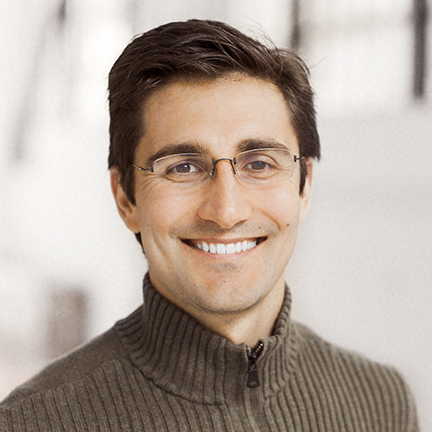
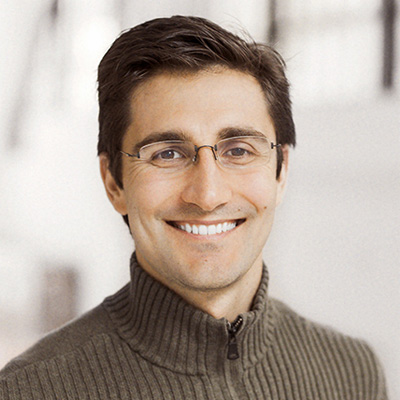
speaker images and descriptions added

diff --git a/src/index.html b/src/index.html
@@ -54,9 +54,9 @@
 	    <!-- Main Speaker Section -->
 	    <div class="row text-xs-center primary-speaker-section">
 	  	 	<div class="col-xs-12">
-	    		<img class="rounded-circle" src="https://www.placehold.it/200x200">
+	    		<img class="rounded-circle primary-speaker-img" src="./imgs/speakers/polly.jpg">
 	    		<h4 class="keynote">KEYNOTE SPEAKER</h4>
-	    		<span class="name">Polly LaBarre</span> <span class="speaker-title"> | Co-author, Mavericks at Work and Founding Member, Fast Company Magazine</span>
+	    		<span class="name">Polly LaBarre</span><span class="speaker-title"> |&nbsp; Co-author, Mavericks at Work and Founding Member, Fast Company Magazine</span>
 	    		<p class="speaker-desc">Polly LaBarre is a bestselling author, speaker, and thinker who has contributed to the business conversation for two decades. She is the coauthor of the bestselling book <i>Mavericks At Work: Why the Most Original Minds in Business Win</i>, a founding memeber of Fast Company magazine (where she was Senior Editor for the better part of a decade), and a former business and innovative correspondent for CNN.</p>
 	    	</div>
     	</div>
@@ -64,47 +64,47 @@
     	<!-- Secondary Speaker Section -->
     	<div class="row secondary-speaker-section-first">
     		<div class="col-xs-12 col-sm-6 col-md-4 text-xs-center">
-    			<img class="rounded-circle speaker-img" src="https://www.placehold.it/190x190">
+    			<img class="rounded-circle secondary-speaker-img" src="./imgs/speakers/josephine.jpg">
     			<div>
-    				<span class="name">Polly LaBarre</span> <span class="speaker-title"> | HOTWIRE</span>
+    				<span class="name">Josephine Foucher</span><span class="speaker-title"> |&nbsp; HOTWIRE</span>
     				<div class="secondary-speaker-title">Product Manager</div>
     			</div>
     		</div>
 				<div class="col-xs-12 col-sm-6 col-md-4 text-xs-center">
-    			<img class="rounded-circle speaker-img" src="https://www.placehold.it/190x190">
+    			<img class="rounded-circle secondary-speaker-img" src="./imgs/speakers/colin.jpg">
     			<div>
-    				<span class="name">Polly LaBarre</span> <span class="speaker-title"> | HOTWIRE</span>
-    				<div class="secondary-speaker-title">Product Manager</div>
+    				<span class="name">Colin Gardiner</span> <span class="speaker-title"> |&nbsp; TRIPPING</span>
+    				<div class="secondary-speaker-title">VP of Products &amp; Analytics</div>
     			</div>
     		</div>
 				<div class="col-xs-12 col-sm-6 col-md-4 text-xs-center">
-    			<img class="rounded-circle speaker-img" src="https://www.placehold.it/190x190">
+    			<img class="rounded-circle secondary-speaker-img" src="./imgs/speakers/julia.jpg">
     			<div>
-    				<span class="name">Polly LaBarre</span> <span class="speaker-title"> | HOTWIRE</span>
-    				<div class="secondary-speaker-title">Product Manager</div>
+    				<span class="name">Julia Kastner</span> <span class="speaker-title"> |&nbsp; GENERAL ASSEMBLY</span>
+    				<div class="secondary-speaker-title">Sr. Product Manager</div>
     			</div>
     		</div>
     	</div>
     	<div class="row secondary-speaker-section-second">
     		<div class="col-xs-12 col-sm-6 col-md-4 text-xs-center">
-    			<img class="rounded-circle speaker-img" src="https://www.placehold.it/190x190">
+    			<img class="rounded-circle secondary-speaker-img" src="./imgs/speakers/hudson.jpg">
     			<div>
-    				<span class="name">Polly LaBarre</span> <span class="speaker-title"> | HOTWIRE</span>
-    				<div class="secondary-speaker-title">Product Manager</div>
+    				<span class="name">Hudson Arnold</span> <span class="speaker-title"> |&nbsp; OPTIMIZELY</span>
+    				<div class="secondary-speaker-title">Strategy Consultant</div>
     			</div>
     		</div>
 				<div class="col-xs-12 col-sm-6 col-md-4 text-xs-center">
-    			<img class="rounded-circle speaker-img" src="https://www.placehold.it/190x190">
+    			<img class="rounded-circle secondary-speaker-img" src="./imgs/speakers/leo.jpg">
     			<div>
-    				<span class="name">Polly LaBarre</span> <span class="speaker-title"> | HOTWIRE</span>
-    				<div class="secondary-speaker-title">Product Manager</div>
+    				<span class="name">Leonid Pekolis</span> <span class="speaker-title"> |&nbsp; OPTIMIZELY</span>
+    				<div class="secondary-speaker-title">Statician</div>
     			</div>
     		</div>
 				<div class="col-xs-12 col-sm-6 col-md-4 text-xs-center">
-    			<img class="rounded-circle speaker-img" src="https://www.placehold.it/190x190">
+    			<img class="rounded-circle secondary-speaker-img" src="./imgs/speakers/jon.jpg">
     			<div>
-    				<span class="name">Polly LaBarre</span> <span class="speaker-title"> | HOTWIRE</span>
-    				<div class="secondary-speaker-title">Product Manager</div>
+    				<span class="name">Polly LaBarre</span> <span class="speaker-title"> |&nbsp; OPTIMIZELY</span>
+    				<div class="secondary-speaker-title">Director, Product Management</div>
     			</div>
     		</div>
     	</div>

diff --git a/src/styles/main.css b/src/styles/main.css
@@ -104,7 +104,7 @@ h4.keynote{
 
 span.name{
 	font-weight: 700;
-	font-size: 1.2rem;
+	font-size: 1.1rem;
 	color: #fff;
 	margin-top: 1rem;
 }
@@ -113,13 +113,18 @@ span.speaker-title,
 .speaker-desc,
 .secondary-speaker-title{
 	font-weight: 300;
-	font-size: 1.3rem;
+	font-size: 1.1rem;
 	color: #fff;
 	margin: 0 auto;
 }
 
-.speaker-img{
+.primary-speaker-img{
+	max-width: 190px
+}
+
+.secondary-speaker-img{
 	margin-bottom: .75rem;
+	max-width: 180px;
 }
 
 .speaker-desc{
@@ -131,7 +136,7 @@ span.speaker-title,
 }
 
 .primary-speaker-section{
-	margin-top: 3rem;
+	margin-top: 4rem;
 	margin-bottom: 6rem;
 }
 
